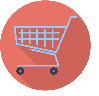
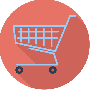
Baza per header

diff --git a/index.html b/index.html
@@ -1,6 +1,6 @@
 <html>
 	<head>
-	<link rel="stylesheet" href="../CSS/Style1.css">
+	<link rel="stylesheet" href="CSS/Style1.css">
 		<title>E-commerce</title>
 	</head>
 	<body>
@@ -8,13 +8,13 @@
 			<a href="index.html"><div id="logo"></div></a>
 			<div id="searcharea"></div>
 			<div id="signin"></div>
-			<div id="wishlist"></div>
-			<div id="cart"></div>
+			<a href="index.html"><div id="wishlist"></div></a>
+			<a href="index.html"><div id="cart"></div></a>
 		</header>
 		<nav id="nav">
 		    <div  id="man">
 		        <ul class="navul">
-                    <li class="navli1"><a href="">MAN</a></li>
+                    <li class="navli1"><a href=""><strong>MAN</strong></a></li>
                     <li class="navli"><a href="">Hats</a></li>
 		            <li class="navli"><a href="">Shirts</a></li>
 		            <li class="navli"><a href="">Pants</a></li>
@@ -24,7 +24,7 @@
 		    </div>
 		    <div id="woman">
 		        <ul class="navul">
-		            <li class="navli1"><a href="">WOMAN</a></li>
+		            <li class="navli1"><a href=""><strong>WOMAN</strong></a></li>
 		            <li class="navli"><a href="">Hats</a></li>
 		            <li class="navli"><a href="">Shirts</a></li>
 		            <li class="navli"><a href="">Pants</a></li>
@@ -34,7 +34,7 @@
 		    </div>
 		    <div id="kid">
 		        <ul class="navul">
-		             <li class="navli1"><a href="">KIDS</a></li>
+		             <li class="navli1"><a href=""><strong>KIDS</strong></a></li>
 		             <li class="navli"><a href="">Hats</a></li>
 		            <li class="navli"><a href="">Shirts</a></li>
 		            <li class="navli"><a href="">Pants</a></li>
@@ -44,7 +44,7 @@
 		    </div>
 		    <div id="technology">
 		        <ul class="navul">
-		            <li class="navli1"><a href="">TECHNOLOGY</a></li>
+		            <li class="navli1"><a href=""><strong>TECHNOLOGY</strong></a></li>
 		            <li class="navli"><a href="">PC</a></li>
 		            <li class="navli"><a href="">Llaptop</a></li>
 		            <li class="navli"><a href="">Phone</a></li>
@@ -54,7 +54,7 @@
 		    </div>
 		    <div  id="sport">
 		        <ul class="navul">
-		            <li class="navli1"><a href="">SPORTS</a></li>
+		            <li class="navli1"><a href=""><strong>SPORTS</strong></a></li>
 		            <li class="navli"><a href="">Hats</a></li>
 		            <li class="navli"><a href="">Shirts</a></li>
 		            <li class="navli"><a href="">Pants</a></li>

diff --git a/CSS/Style1.css b/CSS/Style1.css
@@ -31,17 +31,18 @@ header
 {
     margin-left: 5px;
     float: right;
-    width: 90px;
-    height: 90px;
+    width: 89px;
+    height: 89px;
     border-radius: 50%;
     background-image: url(../images/cart.png);
+    background-size:auto;
 }
 #wishlist
 {
     margin-left: 5px;
     float: right;
-    width: 90px;
-    height: 90px;
+    width: 88px;
+    height: 88px;
     border-radius: 50%;
     background-image: url(../images/wishlist.png);
 }
@@ -55,7 +56,14 @@ header
 }
 #nav
 {
+    -webkit-touch-callout: none;
+    -webkit-user-select: none;
+    -khtml-user-select: none;
+    -moz-user-select: none;
+    -ms-user-select: none;
+    user-select: none;
     border-top:2px solid lightgray;
+    border-bottom:2px solid lightgray;
     position: fixed;
     top: 91.2px;
     width: 1250px;
@@ -119,7 +127,7 @@ header
 }
 #nav>div:hover
 {
-    height: 387px;
+    height: 400px;
     transition:1s;
 }
 #nav>div:hover .navli {
@@ -127,6 +135,7 @@ header
     visibility: visible;
     background-color: lightgray;
     border: 2px solid darkgray;
+    
 }
 .navul
 {
@@ -138,13 +147,15 @@ header
 }
 .navli
 {
+    font-size: 18px;
     visibility: hidden;
     padding-top:  40px;
     
 }
 .navli1
 {
-    padding-bottom:  29px;
+    font-size: 25px;
+    padding-bottom:  18px;
     background-color: #9C5E5E;
 }
 a:visited
